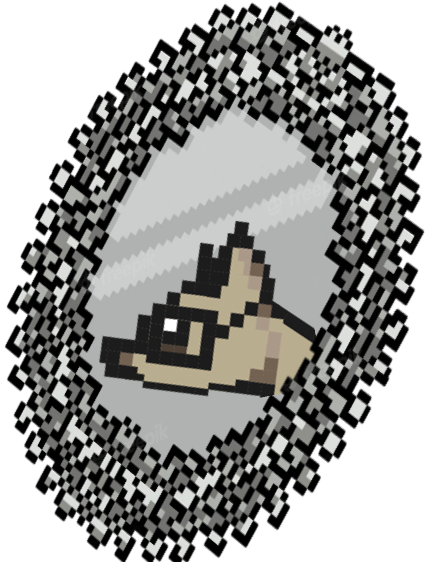
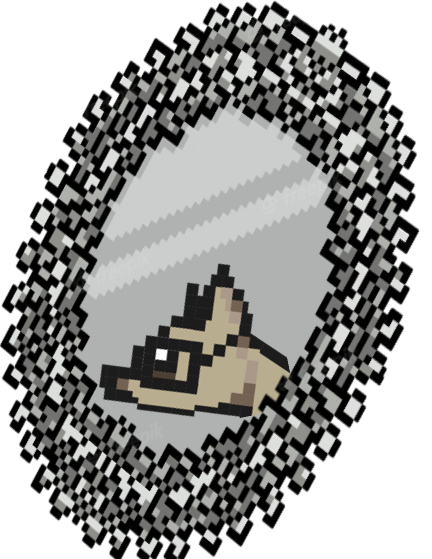
Se añade cambio de espejo con reflejo

diff --git a/src/scenes/NivelA7.js b/src/scenes/NivelA7.js
@@ -32,6 +32,10 @@ class NivelA7 extends Phaser.Scene{
         this.espejo.body.setAllowGravity(false);
         this.espejo.setPushable(false);
         this.espejo.body.setSize(400, 700);
+        this.espejo2 = this.physics.add.image(1520, 600, 'NivelA7/espejoCallejon2').setScale(0.3).setDepth(4).setAlpha(0);
+        this.espejo2.body.setAllowGravity(false);
+        this.espejo2.setPushable(false);
+        this.espejo2.body.setSize(400, 700);
 
         //ANIMACIONES
         this.anims.create({ key: 'dogC', frames: this.anims.generateFrameNames('Dog', { prefix: 'dog', suffix: '.png', start: 1, end: 4 }), repeat: -1, frameRate: 8 });
@@ -69,6 +73,11 @@ class NivelA7 extends Phaser.Scene{
         if ((this.cursors.up.isDown && this.dog.body.onFloor()))
         {
             this.dog.setVelocityY(-500);
+        }
+
+        if(this.dog.x > 1300) {
+            this.espejo2.setAlpha(1);
+            // this.espejo2.setAlpha();
         }
     }
 
